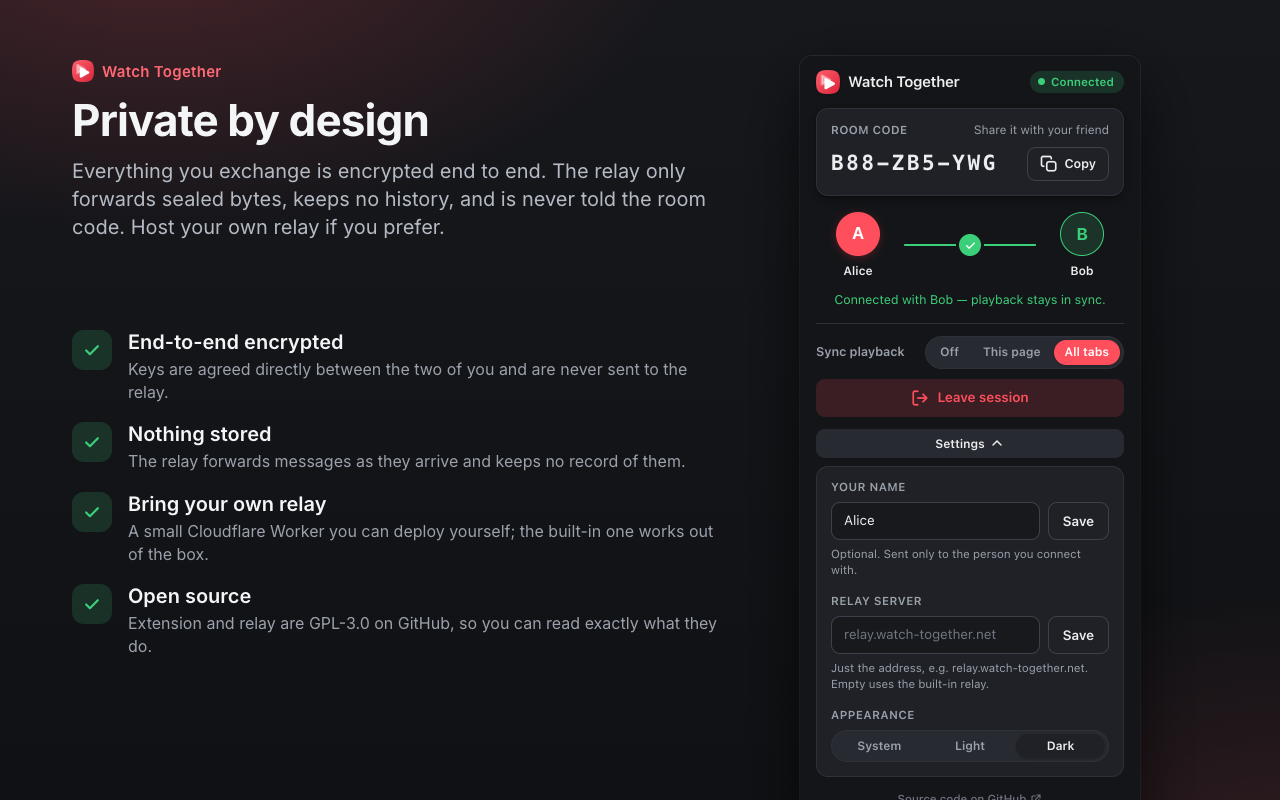
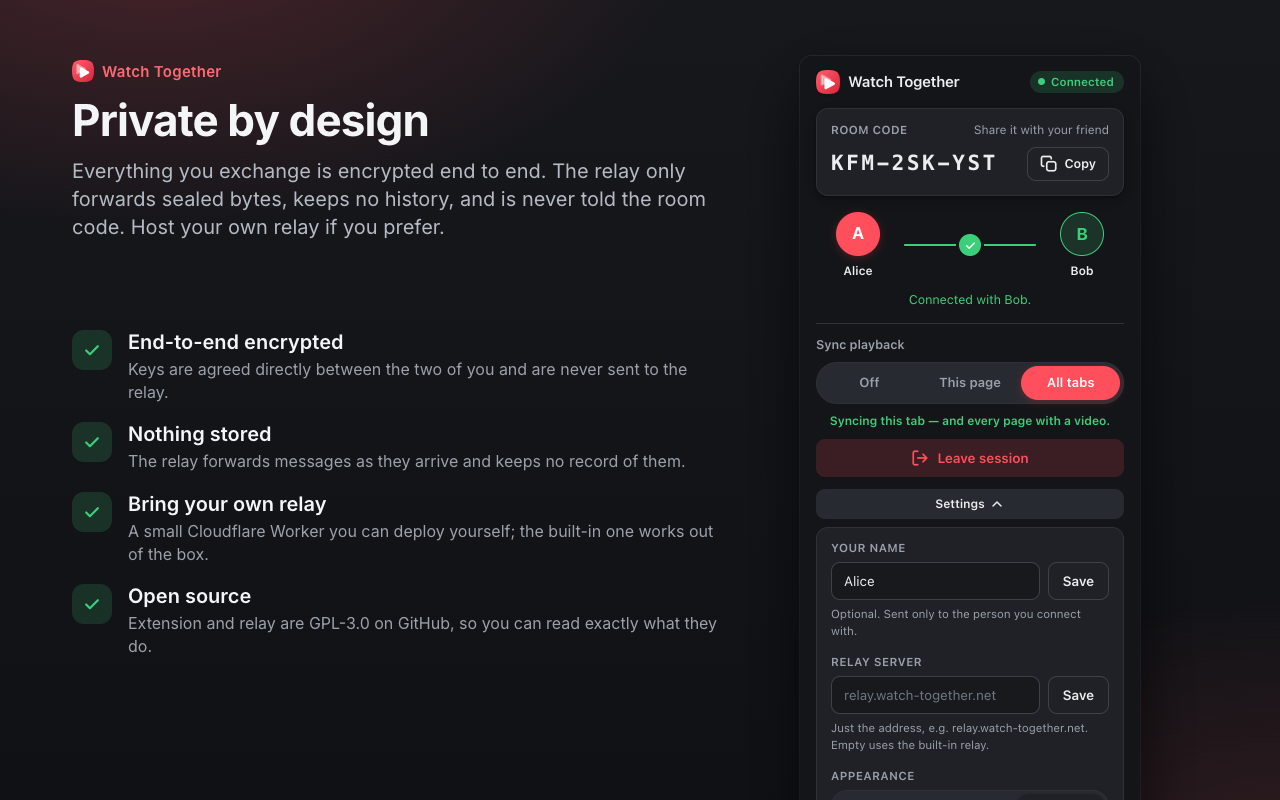
Enhance extension preparation for capturing: allow All tabs permission and update manifest; adjust image dimensions in compose

diff --git a/store/capture.js b/store/capture.js
@@ -6,13 +6,28 @@ const puppeteer = require('puppeteer');
 const path = require('path');
 const fs = require('fs');
 
-const EXT = path.join(__dirname, '..', 'build', 'chrome');
+const BUILD = path.join(__dirname, '..', 'build', 'chrome');
+const EXT = path.join(__dirname, 'profiles', 'extension');
 const OUT = path.join(__dirname, 'captures');
 const DEMO = 'http://localhost:8080/';
 const HEADLESS = process.env.HEADFUL ? false : true;
 fs.mkdirSync(OUT, { recursive: true });
 
 const sleep = ms => new Promise(r => setTimeout(r, ms));
+
+// The images show the extension after the user has allowed All tabs. That
+// grant comes from Chrome's own permission prompt, native UI puppeteer cannot
+// press, so the copy loaded here carries it in its manifest instead. The
+// scripts and popup are the shipped build, untouched.
+function prepareExtension() {
+    fs.rmSync(EXT, { recursive: true, force: true });
+    fs.cpSync(BUILD, EXT, { recursive: true });
+    const manifestPath = path.join(EXT, 'manifest.json');
+    const manifest = JSON.parse(fs.readFileSync(manifestPath, 'utf8'));
+    manifest.host_permissions = manifest.optional_host_permissions;
+    delete manifest.optional_host_permissions;
+    fs.writeFileSync(manifestPath, JSON.stringify(manifest, null, 4));
+}
 
 async function launch(name) {
     const userDataDir = path.join(__dirname, 'profiles', name);
@@ -87,6 +102,7 @@ async function shotPage(page, file) {
 }
 
 (async () => {
+    prepareExtension();
     const A = await launch('alice');
     const B = await launch('bob');
     console.log('extension ids', A.id, B.id);
@@ -138,6 +154,24 @@ async function shotPage(page, file) {
     await sleep(600);
     console.log('  connected');
 
+    // Sync is opt-in: a mode is picked in the popup, on the page with the
+    // video. Loaded in a tab, the popup takes "the page it is on" from the
+    // active tab at load time, so each popup is reloaded while its demo tab
+    // is in front, and All tabs chosen on it. The access it asks for is
+    // already held (see prepareExtension), so no prompt appears and the
+    // background injects the content script into the demo tab.
+    console.log('turn sync on');
+    for (const [demo, pop] of [[demoA, popA], [demoB, popB]]) {
+        await demo.bringToFront();
+        await pop.reload({ waitUntil: 'load' });
+        await sleep(300);
+        await pop.bringToFront();
+        await pop.click('.sync-btn[data-sync="all"]');
+        await waitStorage(pop, 'syncedTabs', v => Array.isArray(v) && v.length > 0);
+    }
+    await sleep(600);
+    console.log('  syncing');
+
     await shotPopup(popA, 'popup-connected-dark.png');
     await storage(popA, 'theme', 'light');
     await sleep(200);
@@ -150,8 +184,7 @@ async function shotPage(page, file) {
     await popA.click('#settings summary');
     await sleep(200);
 
-    // Make the demo tabs active so the content script is injected, then
-    // drive playback from Alice's side and let Bob's page follow.
+    // Drive playback from Alice's side and let Bob's page follow.
     console.log('sync playback');
     await demoA.bringToFront();
     await demoB.bringToFront();

diff --git a/store/compose.js b/store/compose.js
@@ -157,8 +157,8 @@ const shots = [
         file: 'screenshot-5-light-dark.png', w: 1280, h: 800,
         body: `
           ${head({ title: 'Light or dark, your call', sub: 'Follows your system theme, or pin the one you like. Sync this page only, all tabs, or switch it off while you keep the room open.' })}
-          ${popup('popup-connected-light.png', 270, 300)}
-          ${popup('popup-connected-dark.png', 670, 300)}`,
+          ${popup('popup-connected-light.png', 270, 270)}
+          ${popup('popup-connected-dark.png', 670, 270)}`,
     },
 ];
 

diff --git a/store/README.md b/store/README.md
@@ -22,11 +22,14 @@ npm run build                                       # capture, then compose
 
 `capture.js` launches two separate Chrome for Testing profiles with the
 extension loaded, has Alice create a room and Bob join it over the real relay,
-then pauses both demo pages on the same frame and captures the popup states and
-pages at 2×. It runs headed, since Chrome only fires tab activation (which is
-what injects the content script) in a real window. `compose.js` lays the
-captures out as HTML, renders each image with headless Chrome and flattens it
-with sharp.
+turns on All tabs in both popups, then pauses both demo pages on the same
+frame and captures the popup states and pages at 2×. It runs headed, since
+Chrome only fires tab activation in a real window. Sync needs the all-sites
+access a user grants through Chrome's own permission prompt, which puppeteer
+cannot press, so the script loads a copy of the build (`profiles/extension`)
+whose manifest carries that grant; the scripts and popup in it are untouched.
+`compose.js` lays the captures out as HTML, renders each image with headless
+Chrome and flattens it with sharp.
 
 Text and layout changes only need the compose step, and it can be limited to
 the images whose name contains an argument:
